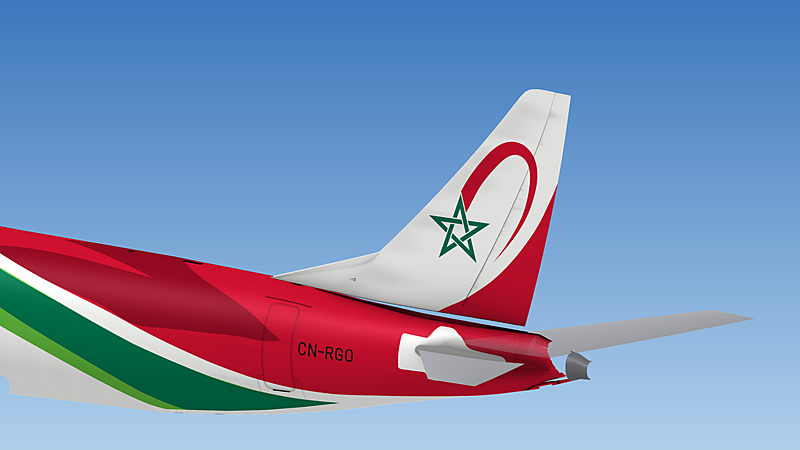
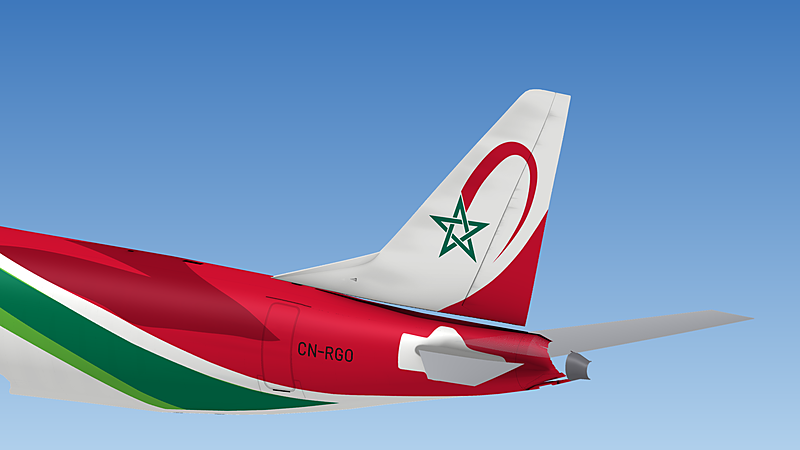
Royal Air Maroc E190 livery: fin red stops at the trailing edge, below the star top
The thin-plate-spline fin map bowed the trailing edge out by ~5.5 photo px.
The red base's boundary ran on past the edge (it was traced through to
(1870, 240)), so the bowed edge took in red all the way up it, well above
the star's top point. Two changes:

- finmap.py also matches points a third and two thirds along the trailing
  and leading edges (straight on the photo and in the texture), so both map
  straight to within 0.8 px;
- FIN_RED now runs straight on into the trailing edge, meeting it in a sharp
  point just below the star's top (0.14 of the star's height below it in the
  renders; 0.12 in the eye-level photo, 0.24 in photo 1), and only then turns
  out past the edge, so the red can't run on up it. Up to x 1800 it is
  unchanged and within 1 px of the photo.

Claude-Session: https://claude.ai/code/session_01AKynkLixakaggPB1GpUYWR

diff --git a/livery/royal-air-maroc-e190/kit-tools/finmap.py b/livery/royal-air-maroc-e190/kit-tools/finmap.py
@@ -8,6 +8,10 @@ crosses from one triangle into the next (the crescent bent where it crossed
 the trailing-edge-root to leading-edge-tip line). Neither one affine nor one
 perspective map fits all five (they miss by up to 125 and 370 texels), so the
 map is a thin-plate spline: exact at the five points and smooth everywhere.
+Points a third and two thirds along the trailing and leading edges are matched
+too (both edges are straight on the photo and in the texture), so the edges
+map straight: left free, the spline bowed them ~5.5 photo px, which carried
+the red base past the trailing edge and up it, above the star's top point.
 """
 import numpy as np
 
@@ -48,13 +52,24 @@ class _TPS:
         return out * _S
 
 
+EDGES = (('rootTE', 'tipTE'), ('tipLE', 'kink'))
+
+
+def _points(d):
+    """the five points plus a third and two thirds along each straight edge"""
+    pts = [d[k] for k in PHOTO]
+    for a, b in EDGES:
+        for t in (1 / 3, 2 / 3):
+            pts.append(tuple(np.array(d[a], float) * (1 - t) + np.array(d[b], float) * t))
+    return pts
+
+
 class FinMap:
     """tex_to_photo and photo_to_tex for one fin side (4K texture units)."""
 
     def __init__(self, side):
-        keys = list(PHOTO)
-        tex = [SIDES[side][k] for k in keys]
-        ph = [PHOTO[k] for k in keys]
+        tex = _points(SIDES[side])
+        ph = _points(PHOTO)
         self.t2p = _TPS(tex, ph)
         self._p2t = _TPS(ph, tex)
 

diff --git a/livery/royal-air-maroc-e190/tools/geometry.py b/livery/royal-air-maroc-e190/tools/geometry.py
@@ -61,7 +61,11 @@ B5 = [(1062, 466), (1080, 485), (1160, 510), (1240, 532), (1280, 546),
 FIN_RED = [(1410, 504), (1440, 509), (1480, 514), (1520, 521), (1560, 527),
            (1600, 533), (1640, 537), (1660, 533), (1680, 524), (1700, 515),
            (1720, 503), (1740, 489), (1760, 471), (1780, 449), (1800, 422),
-           (1815, 395), (1830, 362), (1850, 300), (1870, 240)]
+           # runs straight on into the trailing edge, meeting it in a sharp
+           # point just below the star's top point (0.12 of the star's height
+           # below it in the eye-level photo, 0.24 in photo 1), and only turns
+           # out once past the edge, so the red can't run on up it
+           (1806, 413), (1812, 404), (1818, 395), (1824, 386), (1838, 381), (1870, 379)]
 TAIL_CAP_X = 1840            # metallic APU exhaust behind this
 
 # Cabin windows: centres along the window line, ~14 x 16 px.
